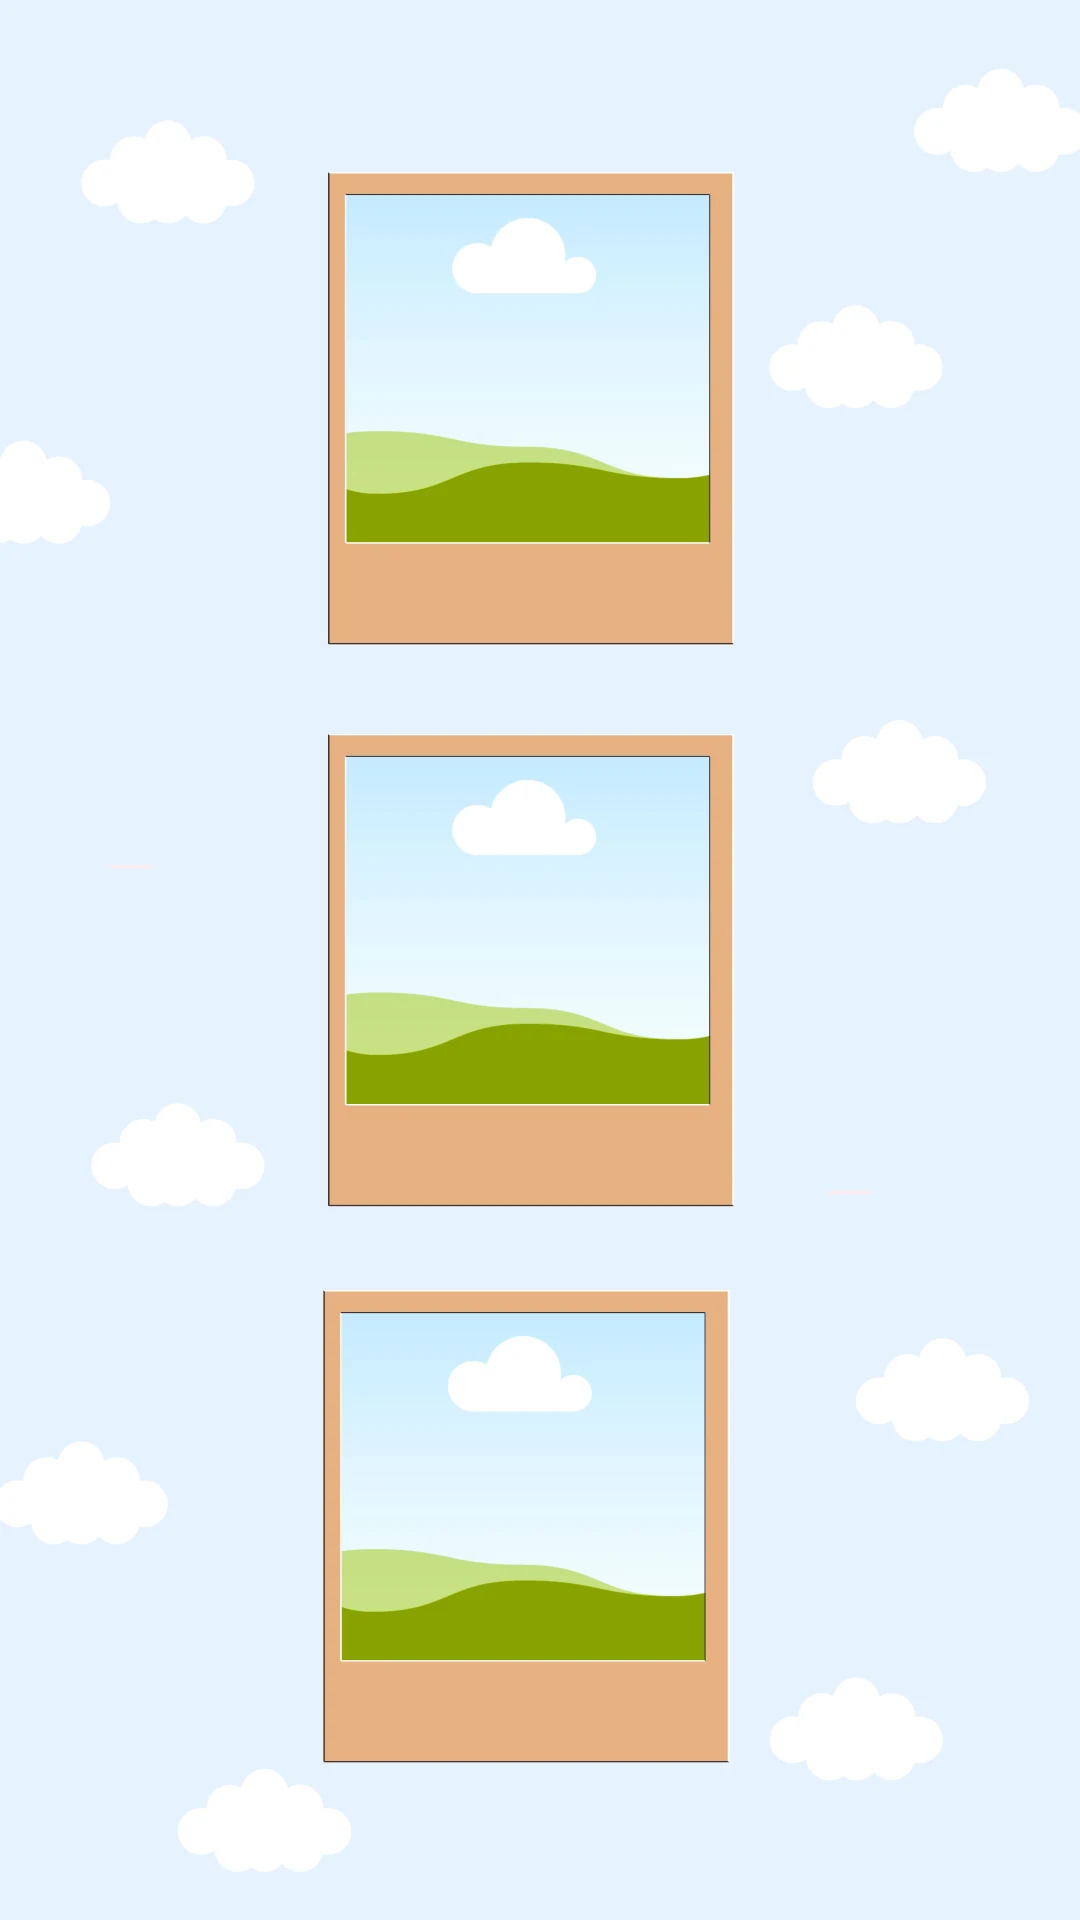
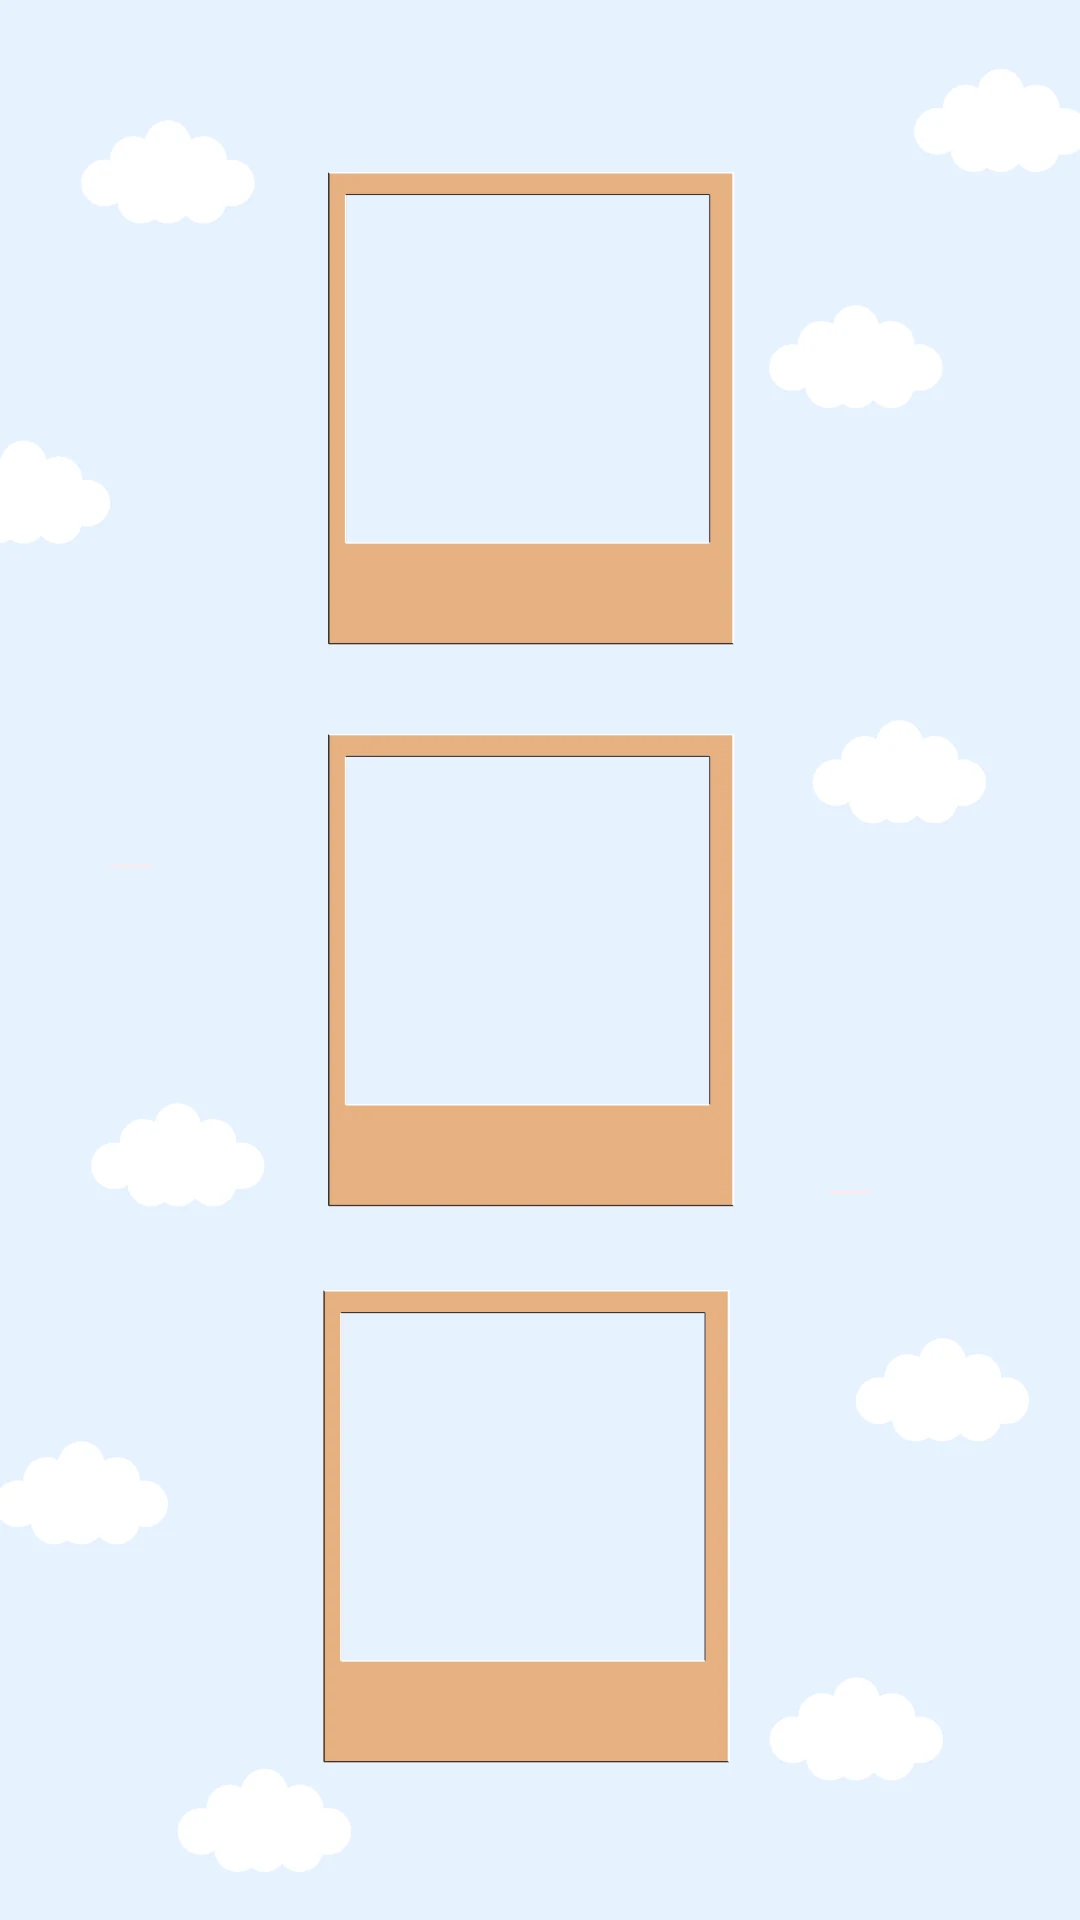
Her three polaroids take photographs, and a design keeps its own words
The Baby Photos page, and the fault underneath it that was quietly
rewriting the whole design.

**Canva's placeholder was in the artwork.** Her three polaroids arrive
with a photo *placeholder* clipped into each — one landscape image, xref
55, placed three times — and it is baked into the export like any other
picture. So a real family's baby photos page carried Canva's green hills.
It comes off with the words now (`drops.json`), and three photographs are
bound into the windows in its place. The windows are measured off the
cleaned ground rather than guessed: the gap between each frame's top
border and its foot, and between its two sides — 366 by 350 pixels of her
1080-wide page, near enough square and not quite.

**A design with no look lost its own words.** `withWords` folds a design's
wording into a look, and a design that names none was handed `undefined`
and gave it straight back — so every `{ word: … }` on all sixteen pages
fell through to the occasion's stock line and her copy was never read.
The christening is exactly that design: it withholds a look *on purpose*,
because naming one would throw its own faces away. Her "Mom and Dad love
you!" was coming out as "The little moments we never want to forget."
`NO_LOOK` is the empty shelf those words stand on — no key, so the
stylesheet matches nothing; the ampersand, which is what the fallback
already gave; nothing else, so every key she does not write still falls
[…]

diff --git a/invites/src/lib/christening.ts b/invites/src/lib/christening.ts
@@ -553,13 +553,56 @@ export const CHRISTENING_PAGES: PageSpec[] = [
     key: 'gallery', label: { en: 'Baby photos' }, sections: ['gallery'], seam: 0, booklet: 'story', drawn: true,
     ground: ground('gallery', 1.7778),
     elements: [
-      // both of these are Abhaya Libre in her file, not a script, and both are
-      // set 1.05 of their size apart — tight, and the reason they read as one
-      // hand-written aside rather than a paragraph
-      GALLERY.one('gallery-left', { base: 39.843, size: pt(35), color: 'accent', cx: 22, w: 29, align: 'left', lead: 1.05, room: 34 },
+      /*
+       * Her two asides, in the gutters her frames leave.
+       *
+       * Both are Abhaya Libre in her file, not a script, and both are set
+       * 1.05 of their size apart — tight, and the reason they read as one
+       * hand-written aside rather than a paragraph.
+       *
+       * The boxes are the width she drew and no wider. That is not fussiness:
+       * her polaroids stand from 30% to 68% of the page, so a box any wider
+       * than the gutter beside them puts the words *on* the frames. The left
+       * one starts at her 7.52 and is 17.5 across, the right one ends at her
+       * 90.0 and is 12 across. Both are her own edges; the widths are the
+       * substitute face's rather than hers, set so the lines break where she
+       * broke them — "Mom and / Dad love / you!" and "You are / our /
+       * greatest / blessing!" — because Abhaya Libre sets wider than the face
+       * she used and her exact widths took an extra line. Widen either past
+       * the gutter and the words climb onto the frames.
+       */
+      GALLERY.one('gallery-left', { base: 39.843, size: pt(35), color: 'accent', cx: 16.27, w: 17.5, align: 'left', lead: 1.05, room: 26 },
         bind('gallery', 'note'), { word: 'galleryNote' }, say('Mom and Dad love you!')),
-      GALLERY.one('gallery-right', { base: 56.523, size: pt(30), color: 'accent', cx: 75, w: 30, align: 'right', lead: 1.05, room: 40 },
+      GALLERY.one('gallery-right', { base: 56.523, size: pt(30), color: 'accent', cx: 84.0, w: 12.0, align: 'right', lead: 1.05, room: 32 },
         bind('gallery', 'close'), { word: 'galleryClose' }, say('You are our greatest blessing!')),
+      /*
+       * Three photographs, in the windows of her three polaroids.
+       *
+       * Canva leaves a photo *placeholder* in a frame — one landscape image
+       * placed three times and clipped — and it is baked into the export like
+       * any other picture. It came off with the words (`drops.json`), because
+       * a family's baby photos page carrying Canva's green hills is worse than
+       * one carrying nothing. The windows are measured off the cleaned ground
+       * rather than guessed: the gap between each frame's top border and its
+       * foot, and between its two sides.
+       *
+       * `cover`, so a portrait from a phone fills the square instead of
+       * sitting letterboxed in it, and no frame of our own — her polaroid is
+       * the frame.
+       */
+      // `aspect` is the window's height over its width, which is what the
+      // slot takes — 350 by 366 pixels on her 1080-wide page, near enough
+      // square and not quite
+      ...[
+        { cx: 48.89, cy: 19.22, aspect: 0.9563 },
+        { cx: 48.89, cy: 48.46, aspect: 0.9590 },
+        { cx: 48.43, cy: 77.45, aspect: 0.9563 },
+      ].map(({ cx, cy, aspect }, i): PhotoEl => ({
+        id: `gallery-photo-${i + 1}`, kind: 'photo',
+        x: cx, y: cy, w: 33.89, aspect, anchor: 'centre', frame: 'none',
+        bind: { section: 'gallery', field: 'photos', index: i, sub: 'url' },
+        alt: { section: 'gallery', field: 'photos', index: i, sub: 'caption' },
+      })),
     ],
   },
 

diff --git a/invites/src/lib/looks.ts b/invites/src/lib/looks.ts
@@ -60,7 +60,12 @@ export type LineKey =
 export type TitleKey = 'story' | 'parents' | 'invitation' | 'entourage' | 'sponsors' | 'gallery' | 'venue' | 'getting' | 'dressCode' | 'gift' | 'program' | 'social' | 'guestbook' | 'photos' | 'rsvp' | 'contact';
 
 export type Look = {
-  key: LookKey;
+  /**
+   * '' for `NO_LOOK` — a design that writes its own words and names no look.
+   * `[data-look]` is matched exactly in the stylesheet, so a blank key styles
+   * nothing, which is what a design with no look should get.
+   */
+  key: LookKey | '';
   name: string;
   /** One line for the picker. */
   tagline: string;
@@ -82,10 +87,40 @@ export type Look = {
   own?: { lines?: Partial<Record<Lang, LineKey[]>>; titles?: Partial<Record<Lang, TitleKey[]>> };
 };
 
+/**
+ * A look with no look in it: the shelf a design's own words stand on when the
+ * design names no look.
+ *
+ * `withWords` folds a design's wording into a look, and a design without one
+ * had nowhere to put it — so it returned the undefined it was given and every
+ * fixed writing fell through to the occasion's stock line. The christening is
+ * exactly that design: it withholds a look deliberately, because naming one
+ * would throw its own faces away (`resolveTheme` ends with `fonts = set.fonts`),
+ * and the price was that "Mom and Dad love you!" came out as the occasion's
+ * "The little moments we never want to forget."
+ *
+ * Everything here is inert. No key, so the stylesheet matches nothing; the
+ * ampersand, which is what `look?.joiner ?? '&'` already gave; no lines and no
+ * titles, so every key the design does not write still falls through to the
+ * occasion exactly as it did before. The fonts are never read off this object
+ * — a design's faces come from its own pairing, through `resolveTheme` — and
+ * are the app's own so the field is not a lie.
+ */
+export const NO_LOOK: Look = {
+  key: '', name: '', tagline: '', joiner: '&',
+  fonts: { display: 'Georgia, serif', body: 'Georgia, serif', load: [] },
+  titles: {}, lines: {} as Record<LineKey, Line>,
+};
+
 const CORMORANT = "'Cormorant Garamond', 'Hoefler Text', Georgia, serif";
 const CORMORANT_LOAD = 'Cormorant Garamond:ital,wght@0,400;0,500;0,600;1,400;1,500';
 
-export const LOOKS: Look[] = [
+/**
+ * The catalogue's five. Narrower than `Look` by its key: every look listed
+ * here is one a customer can pick, so it is named, and `LOOK_MIN_TIER` and
+ * the fonts book can index it. Only `NO_LOOK` has the blank.
+ */
+export const LOOKS: (Look & { key: LookKey })[] = [
   {
     key: 'heritage',
     name: 'Heritage',
@@ -441,7 +476,7 @@ export const BASE_LOOK: LookKey = 'modern';
  * The looks this package may pick, the ones it already had first. Basic has
  * one — the font style it is set in, with nothing to choose.
  */
-export function looksFor(tier: Tier): Look[] {
+export function looksFor(tier: Tier): (Look & { key: LookKey })[] {
   return LOOKS.filter((l) => tierAtLeast(tier, LOOK_MIN_TIER[l.key])).sort(
     (a, b) => RANK[LOOK_MIN_TIER[a.key]] - RANK[LOOK_MIN_TIER[b.key]] || LOOKS.indexOf(a) - LOOKS.indexOf(b),
   );

diff --git a/invites/src/lib/design.ts b/invites/src/lib/design.ts
@@ -2,7 +2,7 @@ import { z } from 'zod';
 import type { Occasion } from '@prisma/client';
 import { t, type Lang } from './copy';
 import { formatDate, formatTime, parseDateKey } from './datetime';
-import { LOOKS, lookTitle, type Look, type LineKey, type TitleKey } from './looks';
+import { LOOKS, NO_LOOK, lookTitle, type Look, type LineKey, type TitleKey } from './looks';
 import { MOMENT_KEYS, type MomentKey, type Trigger as MomentTrigger, type Speed as MomentSpeed } from './moments';
 import { OCCASION_SECTIONS, sectionLabel, sectionOrder, type SectionKey } from './sections';
 import {
@@ -232,11 +232,19 @@ export function artOf(raw: unknown): DesignArt {
  * design gives in a language replaces the look's in that language, the rest
  * stands. The heading keys and the line keys are distinct sets, so one flat
  * block per language serves both.
+ *
+ * A design with no look still has words. It used to lose them here — the
+ * function was handed `undefined` and gave it straight back — so a design
+ * that withholds a look on purpose, as the christening does to keep its own
+ * faces, had every one of its fixed writings fall through to the occasion's
+ * stock line. `NO_LOOK` is the empty shelf those words stand on; a design
+ * with neither a look nor words of its own still gets nothing, which is what
+ * it asked for.
  */
 export function withWords(look: Look | undefined, words: DesignWords): Look | undefined {
-  if (!look) return look;
   const langs = Object.keys(words) as Lang[];
   if (!langs.length) return look;
+  look = look ?? NO_LOOK;
   const lines = { ...look.lines };
   const titles = { ...look.titles };
   /*

diff --git a/invites/scripts/canva-grounds.py b/invites/scripts/canva-grounds.py
@@ -62,6 +62,21 @@ Everything removed here is drawn again as a live element, so this is a
 subtraction, not a loss.
 """
 import pymupdf, re, glob, os, sys, json
+from PIL import Image
+
+
+def slug(stem):
+    """"Sub Page 2 - Our Story-Gallery" -> "gallery".
+
+    Canva names an export after where the page sits in her deck, which is
+    not what the page *is* and changes the moment she reorders it. The app
+    asks for /christening/gallery.webp, so the deck position is dropped and
+    what is left is lowercased: whatever follows the last dash, or the last
+    word of a "Main Page N - Name". A `names.json` beside the PDFs overrides
+    it where her wording and the app's part do not match.
+    """
+    tail = stem.rsplit('-', 1)[-1]
+    return re.sub(r'[^a-z0-9]+', '-', tail.strip().lower()).strip('-')
 
 BT_ET = re.compile(rb'BT\b.*?\bET\b', re.S)
 RULE  = (0.4039, 0.4039, 0.4275)   # the colour of the CLICK HERE underline
@@ -145,7 +160,7 @@ def survey(src, out):
     print(f'List the lettering ones per page in {src}/drops.json, then run again without --survey.')
 
 
-def build(src, out, drops, cuts):
+def build(src, out, drops, cuts, names):
     os.makedirs(out, exist_ok=True)
     tot = [0, 0, 0]
     for f in sorted(glob.glob(f'{src}/*.pdf')):
@@ -202,11 +217,13 @@ def build(src, out, drops, cuts):
 
         p = d.reload_page(p)
         z = 1080 / p.rect.width
-        p.get_pixmap(matrix=pymupdf.Matrix(z, z)).save(f'{out}/{stem}.png')
+        pix = p.get_pixmap(matrix=pymupdf.Matrix(z, z))
+        name = names.get(stem) or slug(stem)
+        Image.frombytes('RGB', (pix.width, pix.height), pix.samples).save(f'{out}/{name}.webp', quality=88, method=6)
         left = len(p.get_text().strip())
         tot[0] += t; tot[1] += imgs; tot[2] += rules
         note = '' if not left else f'  ! {left} chars of text left'
-        print(f'{stem[:36]:<38} text {t:>3}  lettering {imgs:>2}  rules {rules}  cuts {cut}{note}')
+        print(f'{stem[:34]:<36} → {name:<12} text {t:>3}  lettering {imgs:>2}  rules {rules}  cuts {cut}{note}')
         d.close()
     print(f'\n{tot[0]} text blocks, {tot[1]} flattened pieces, {tot[2]} underlines')
 
@@ -229,4 +246,6 @@ else:
         print(f'note: no {dj}, so every picture is kept. Run --survey to choose.\n')
     cj = os.path.join(src, 'cuts.json')
     cuts = {k: list(v) for k, v in json.load(open(cj)).items()} if os.path.isfile(cj) else {}
-    build(src, out, drops, cuts)
+    nj = os.path.join(src, 'names.json')
+    names = json.load(open(nj)) if os.path.isfile(nj) else {}
+    build(src, out, drops, cuts, names)
